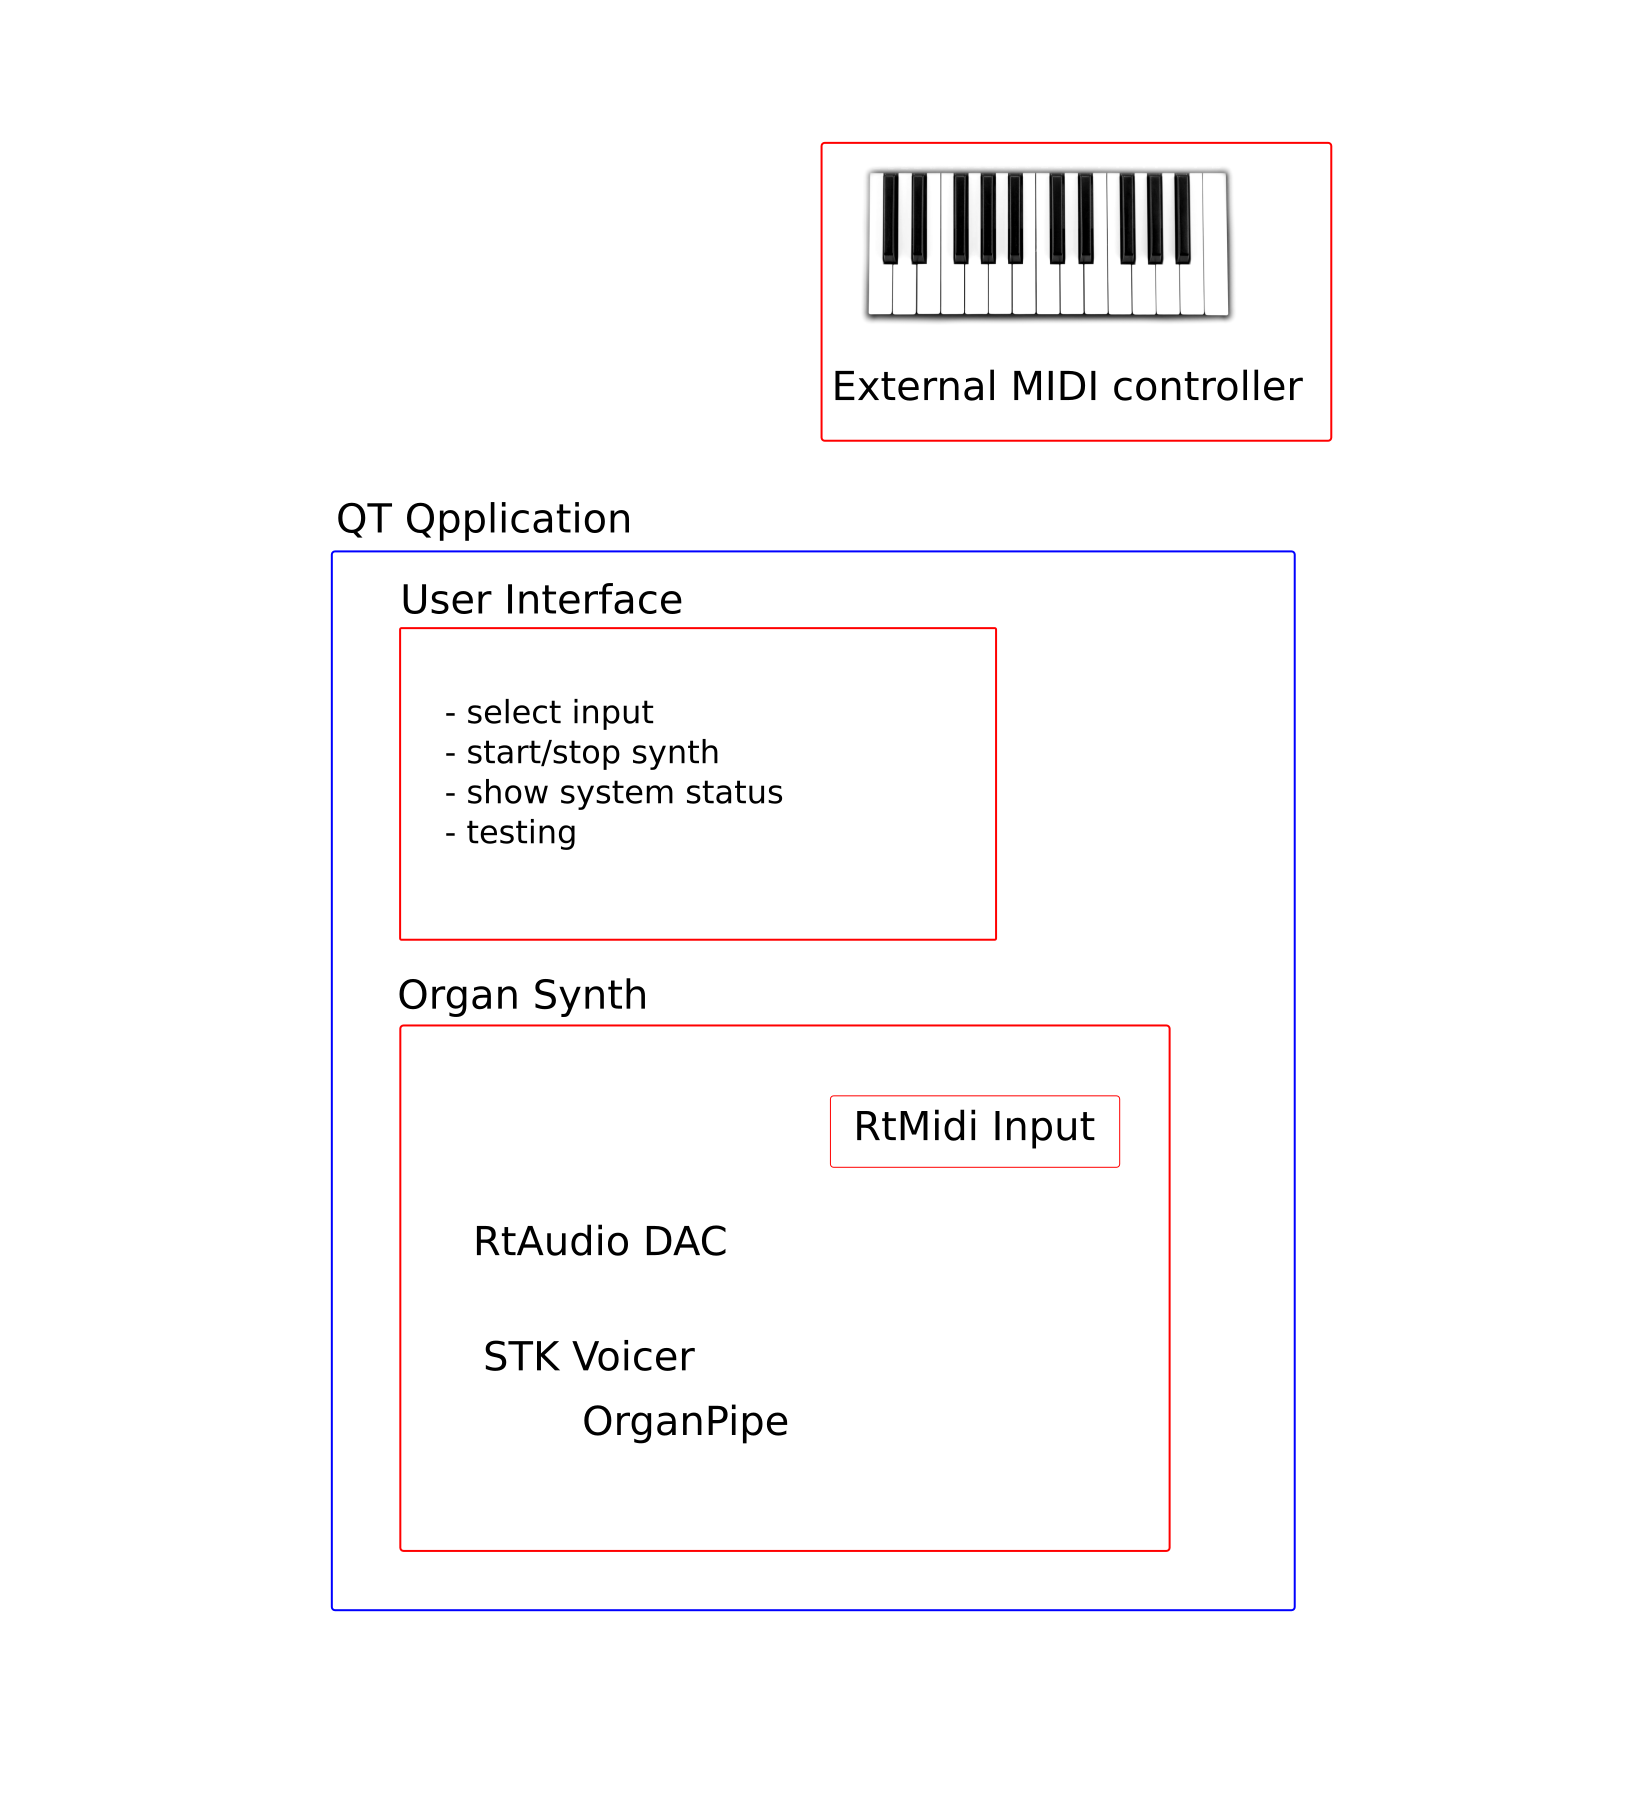
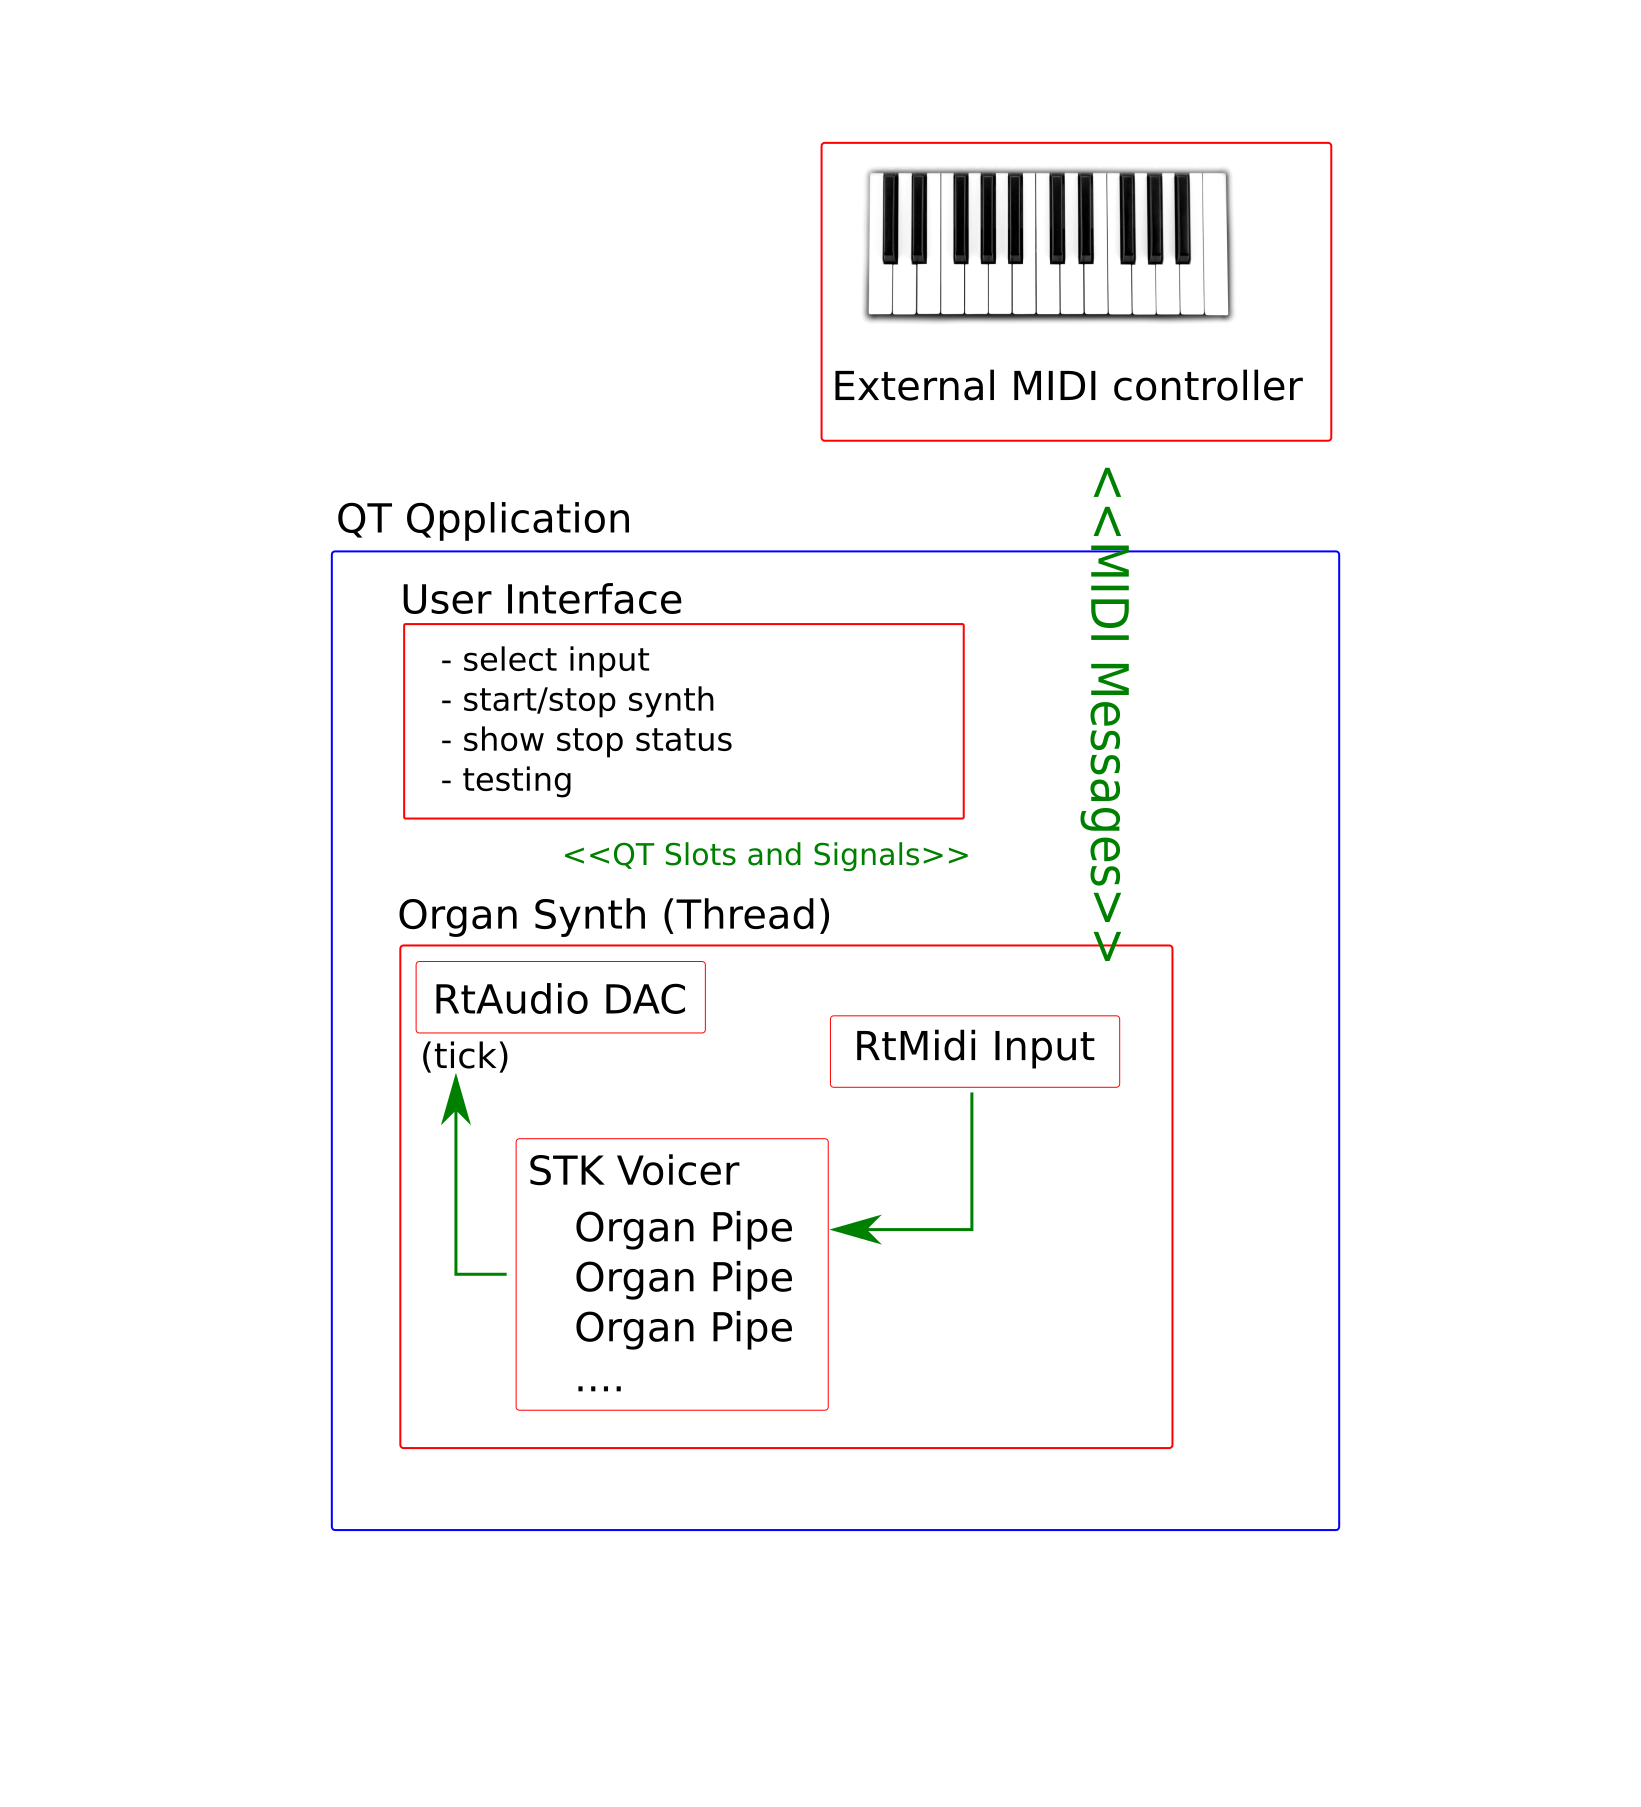
updated sys diagram

diff --git a/report_markdown.md b/report_markdown.md
@@ -51,13 +51,14 @@ There are two main kinds of pipes on an organ.
 * Frequency is tuned by length of pipe
 * Typically metal (usually cylindrical) or wood (often rectangular)
 ![pipe shapes](img/pipeshapes.jpg)
-(Clarke 1877)
+
+	(Clarke 1877)
 
 ####Reed Pipes
 * The reed pipe is more like a clarinet (or very large single reed harmonica, perhaps).
 ![wind chest](img/reedpipe.jpg)
 
-(Clarke 1877)
+	(Clarke 1877)
 
 * The pipes are grouped together in a row (called "stops" or "ranks"), and connected to the air source or "wind chest".
 
@@ -127,8 +128,10 @@ One of the more famous virtual software organ systems is [Hauptwerk](https://www
 QT Application: cross platform C++ development environment
 
 * User interface for basic control, visual feedback of status
-* MIDI interface for 
+* MIDI interface for reading input from external controller
 * Synthesis module for producing sound, managing voices
+	* STK Voicer class for managing polyphony
+	* STK Instruments for each type of "pipe"
 
 ![test ](img/system.png)
 
@@ -168,7 +171,7 @@ Or, if we're looking at reed pipes:
 
 ###Further Development
 
-* Try modelling different pipe shapes, creating more groups of stops
+* Try actually modelling pipe shapes, creating more groups of stops that behave more like an organ and less like the wind instrument models
 
 * Modelling other effects such as swell boxes, reverb of different spaces
 
